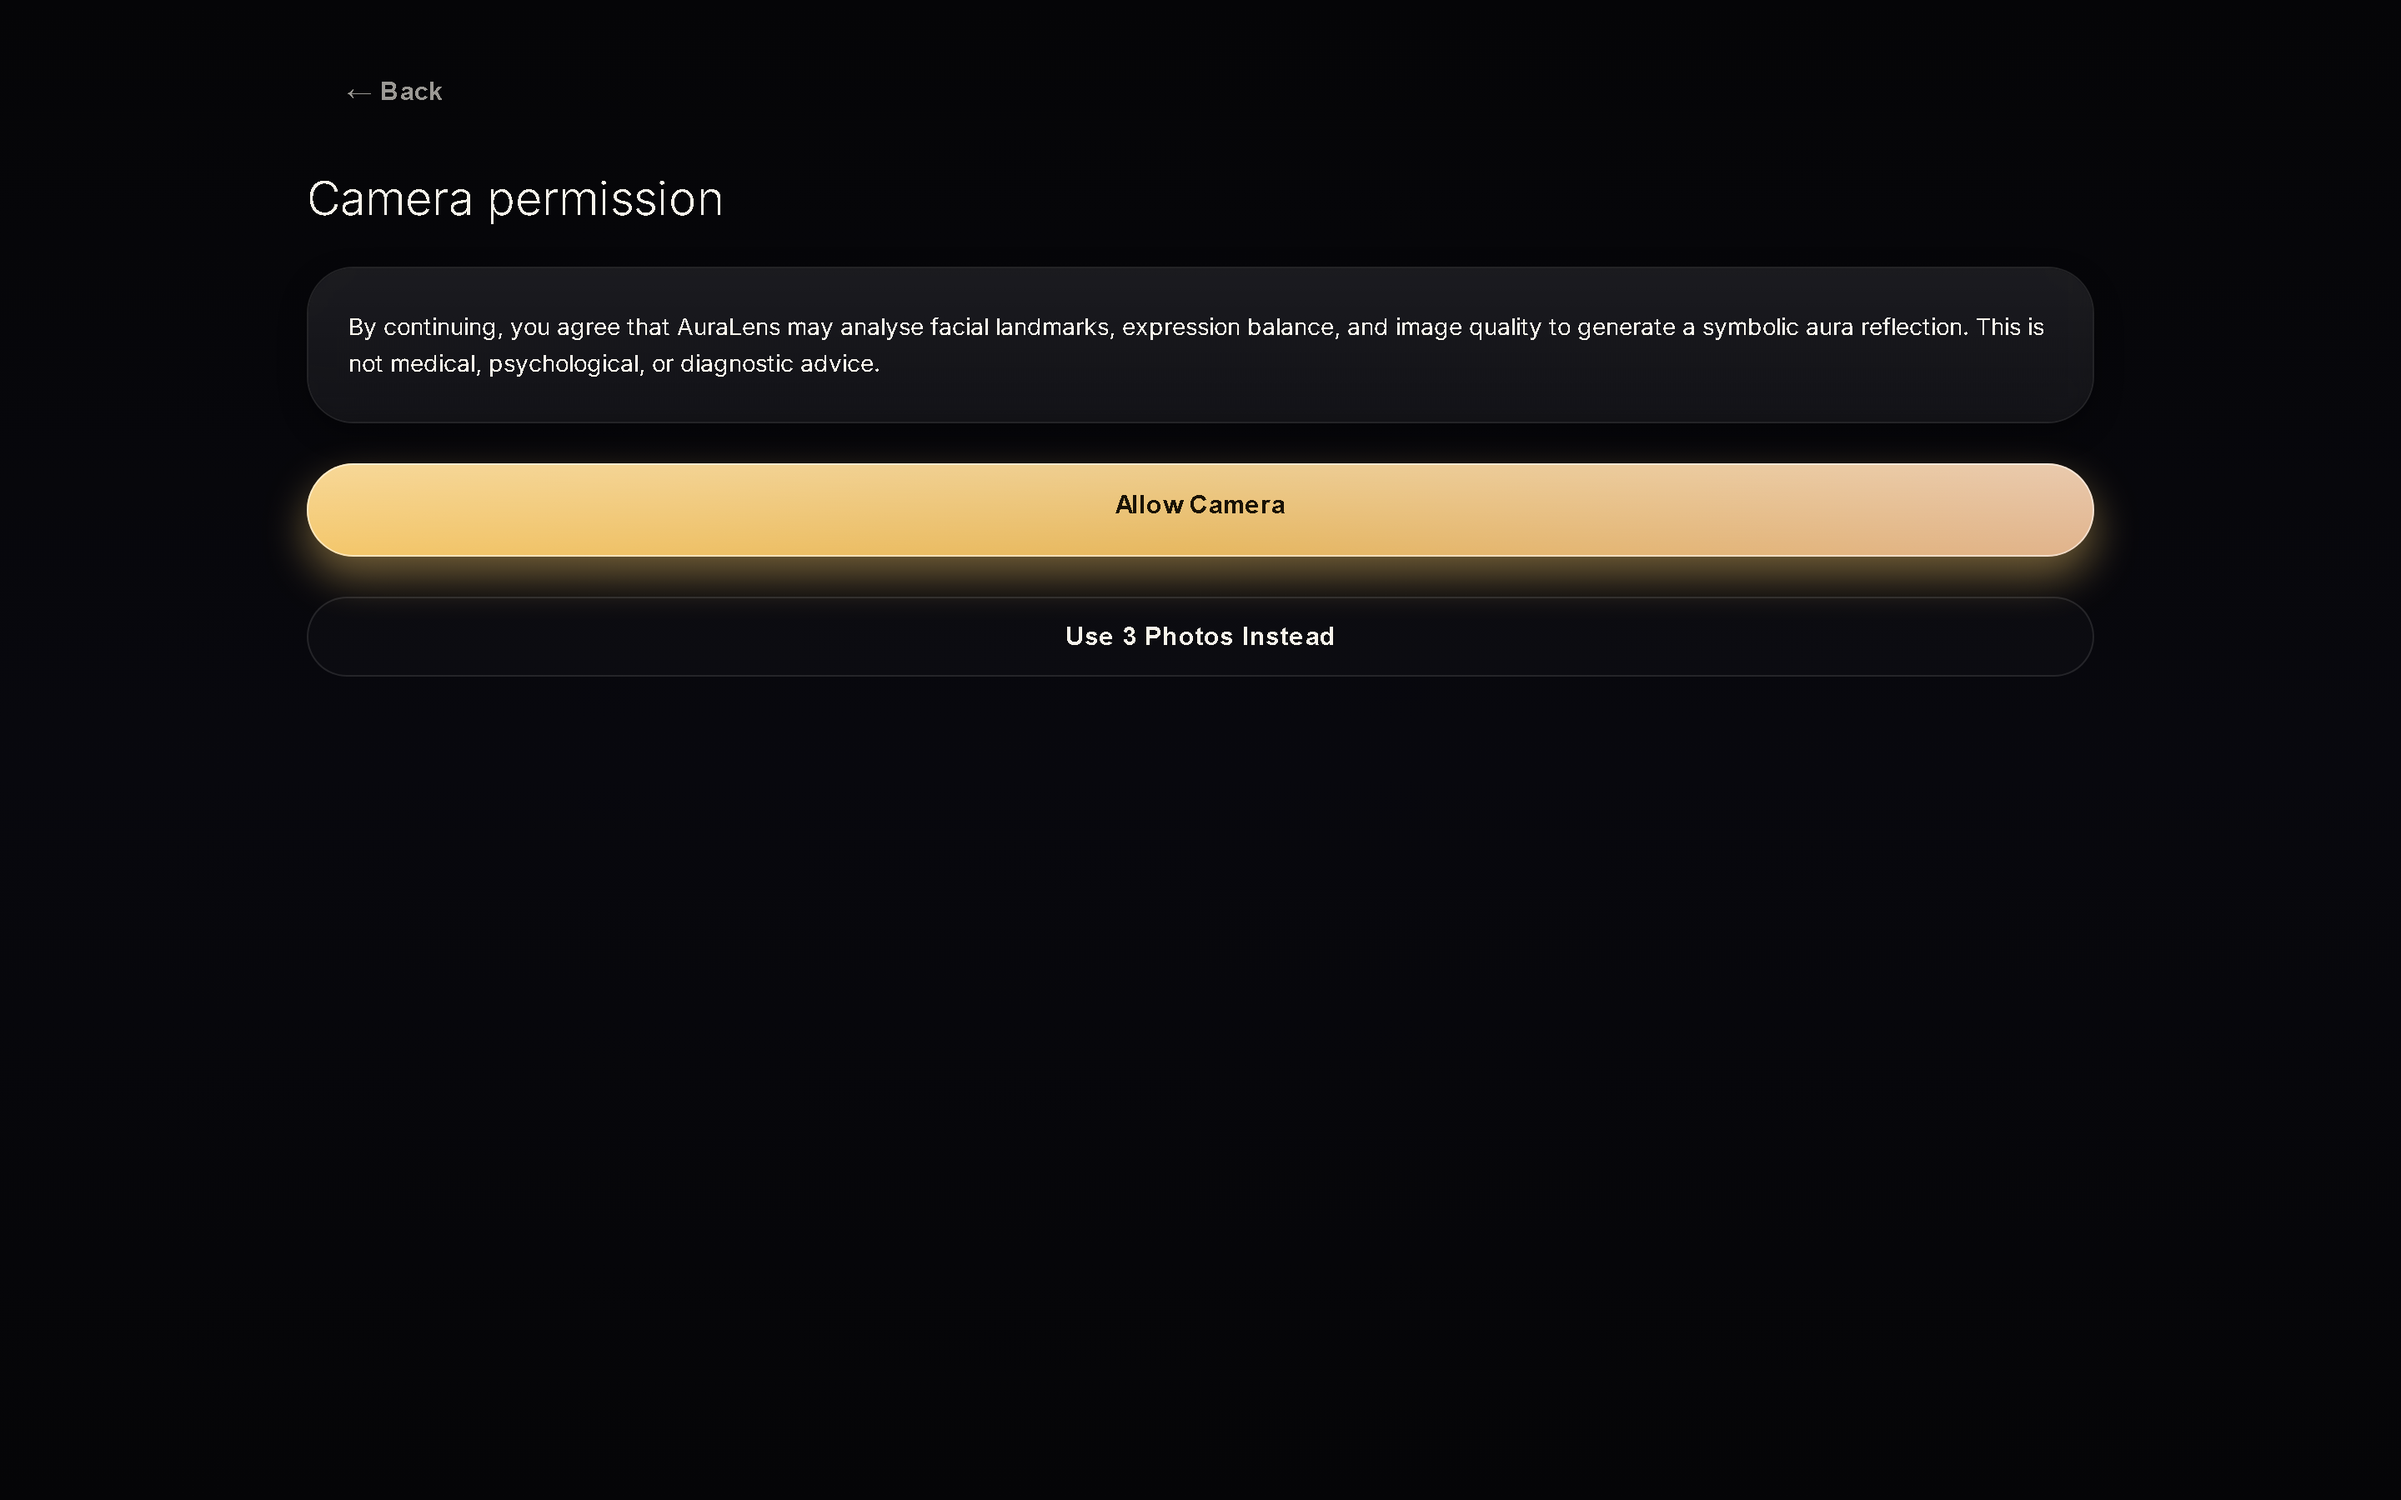
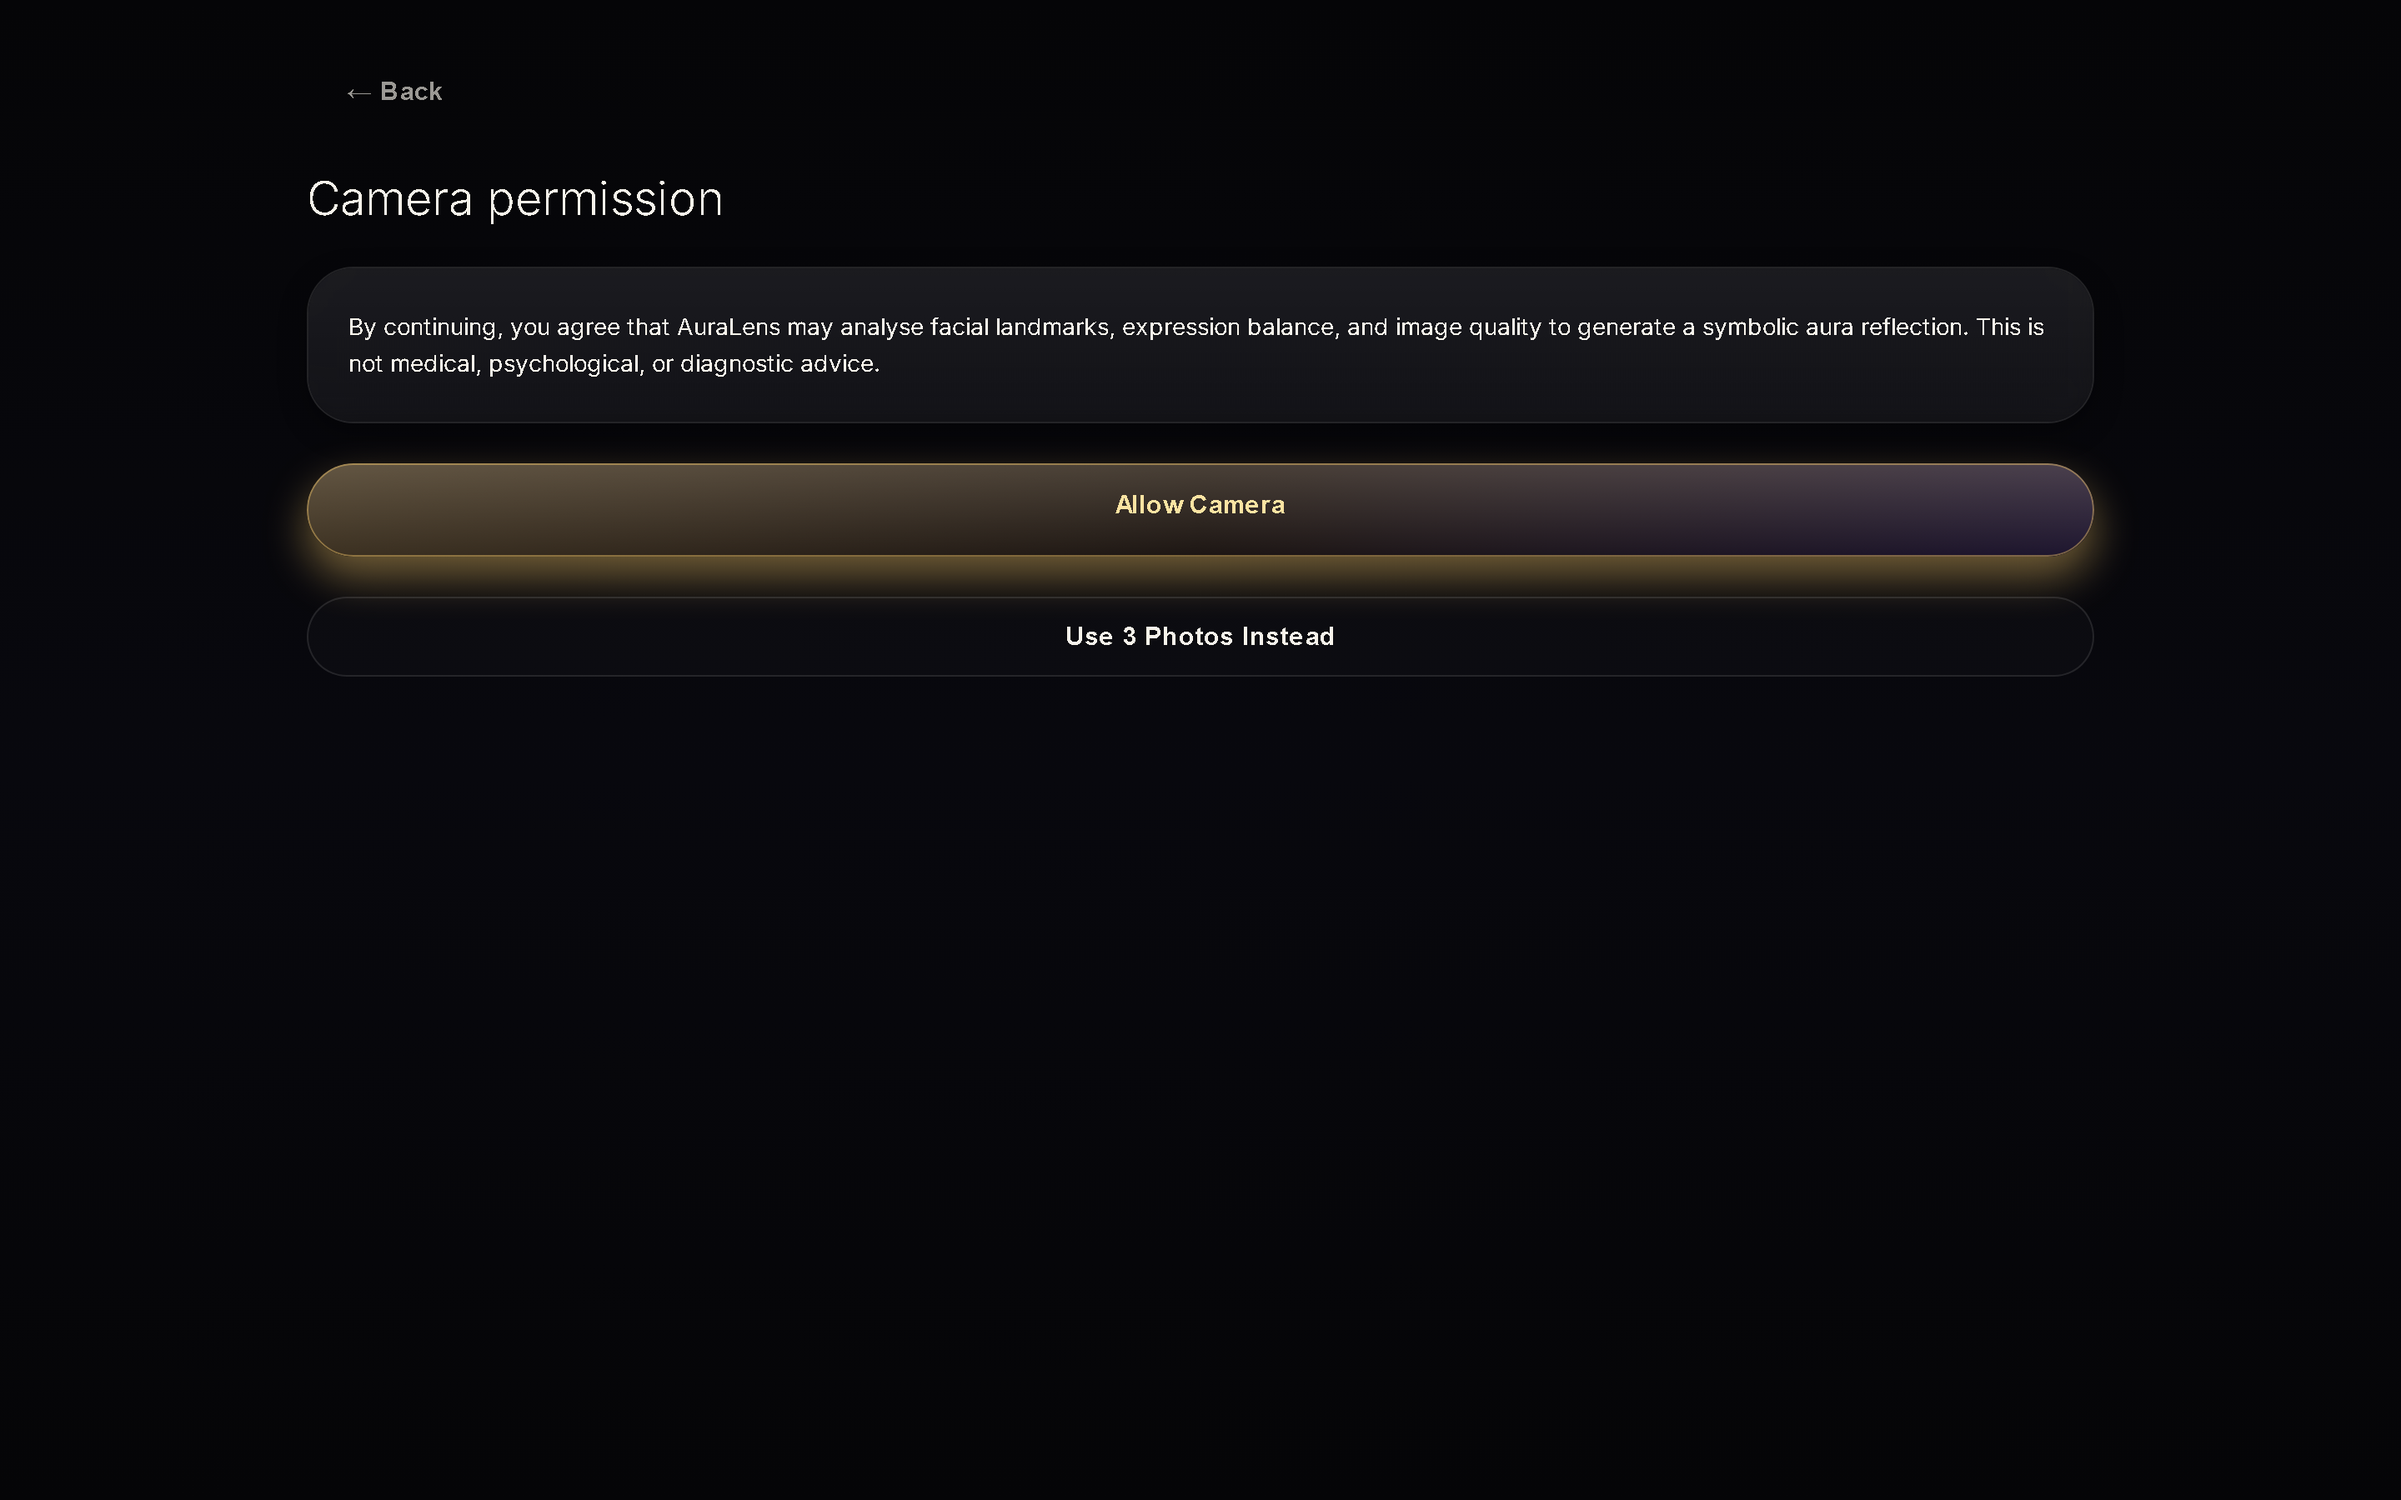
Fix ReferenceError: FadeUp not defined (stray usage in top nav after import removal)

Changed region(s): [[0.125, 0.3111, 0.875, 0.3733]]

diff --git a/app/index.tsx b/app/index.tsx
@@ -31,18 +31,16 @@ export default function Hero() {
   return (
     <ScreenContainer orbColour="Violet" orbSecondary="Blue">
       {/* Top nav strip */}
-      <FadeUp delay={50}>
-        <View style={styles.topBar}>
-          <View style={styles.brandRow}>
-            <Text style={styles.brand}>{APP_DISPLAY_NAME.toUpperCase()}</Text>
-            <Text style={styles.brandSub}>by Vybstak</Text>
-          </View>
-          <View style={styles.topLinks}>
-            <TopLink label="Pricing" to="/pricing" />
-            <TopLink label="Sign in" to="/auth" />
-          </View>
+      <View style={styles.topBar}>
+        <View style={styles.brandRow}>
+          <Text style={styles.brand}>{APP_DISPLAY_NAME.toUpperCase()}</Text>
+          <Text style={styles.brandSub}>by Vybstak</Text>
         </View>
-      </FadeUp>
+        <View style={styles.topLinks}>
+          <TopLink label="Pricing" to="/pricing" />
+          <TopLink label="Sign in" to="/auth" />
+        </View>
+      </View>
 
       {/* Hero row — NO animation on the text. Static = guaranteed no ghosting. */}
       <View style={[styles.columns, wide && styles.columnsWide]}>
